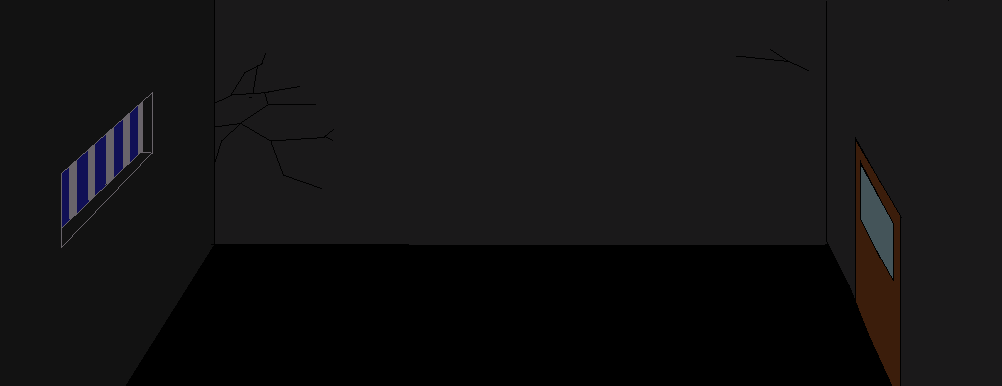
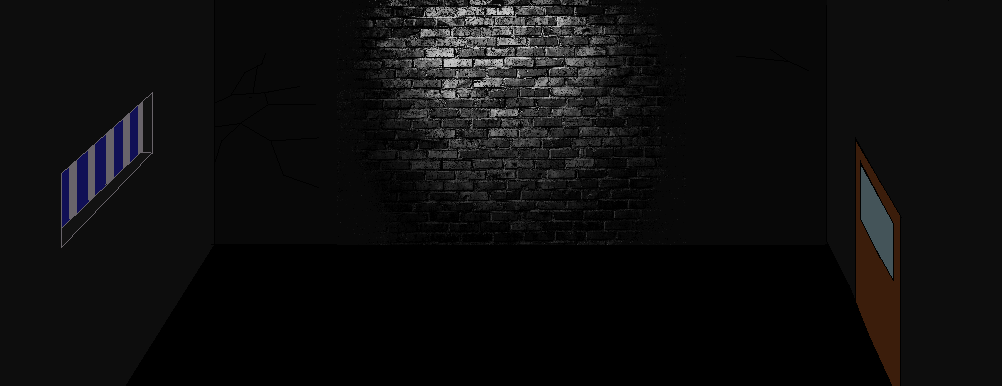
new background for interrogation scene added

Changed region(s): [[0.3403, 0.0, 0.6806, 0.6528]]

diff --git a/app/styles/dick-sprite.css b/app/styles/dick-sprite.css
@@ -10,6 +10,7 @@
   margin-top: -12rem;
   margin-left: -3rem;
   filter: drop-shadow(12px -2px 7px rgba(0,0,0,0.5));
+  -webkit-filter: drop-shadow(12px -2px 7px rgba(0,0,0,0.5));
 }
 .playerSprite {
   height: 198px;

diff --git a/app/components/scene-scripts.js b/app/components/scene-scripts.js
@@ -4,11 +4,7 @@ import Ember from 'ember';
 const {
   get,
   Object: EmberObject,
-  run: {
-    later,
-  },
   set,
-  setProperties,
   $,
 } = Ember;
 

diff --git a/app/components/player-actions.js b/app/components/player-actions.js
@@ -4,9 +4,6 @@ import Ember from 'ember';
 const {
   $,
   get,
-  run: {
-    later,
-  },
   set,
 } = Ember;
 
